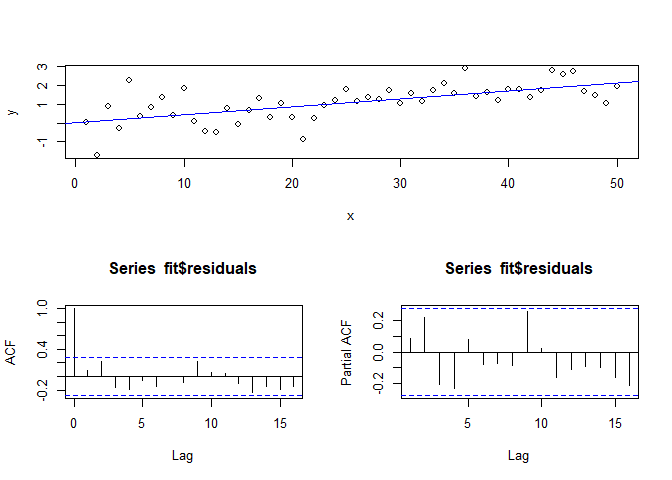
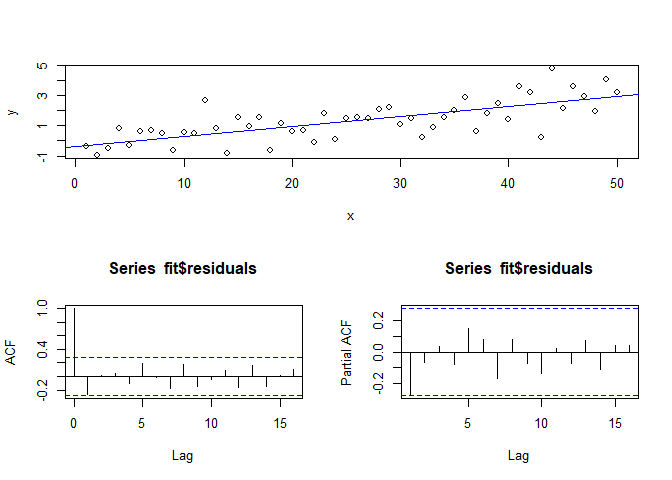
Update md

diff --git a/src/2022-03-08_newey-west-heteroskedasticity-and-autocorrelation-robust-errors.md b/src/2022-03-08_newey-west-heteroskedasticity-and-autocorrelation-robust-errors.md
@@ -136,33 +136,33 @@ summary(fit) # standard estimates
     ## lm(formula = y ~ x)
     ## 
     ## Residuals:
-    ##      Min       1Q   Median       3Q      Max 
-    ## -1.84259 -0.43207  0.01309  0.42442  2.00734 
+    ##     Min      1Q  Median      3Q     Max 
+    ## -2.2314 -0.5123  0.1399  0.6037  2.2652 
     ## 
     ## Coefficients:
     ##             Estimate Std. Error t value Pr(>|t|)    
-    ## (Intercept) 0.038515   0.212067   0.182    0.857    
-    ## x           0.042166   0.007238   5.826 4.62e-07 ***
+    ## (Intercept) -0.34269    0.26606  -1.288    0.204    
+    ## x            0.06563    0.00908   7.227  3.3e-09 ***
     ## ---
     ## Signif. codes:  0 '***' 0.001 '**' 0.01 '*' 0.05 '.' 0.1 ' ' 1
     ## 
-    ## Residual standard error: 0.7386 on 48 degrees of freedom
-    ## Multiple R-squared:  0.4142, Adjusted R-squared:  0.402 
-    ## F-statistic: 33.94 on 1 and 48 DF,  p-value: 4.621e-07
+    ## Residual standard error: 0.9266 on 48 degrees of freedom
+    ## Multiple R-squared:  0.5211, Adjusted R-squared:  0.5111 
+    ## F-statistic: 52.23 on 1 and 48 DF,  p-value: 3.301e-09
 
 ``` r
 coeftest(fit, vcov = NeweyWest(fit, verbose = T))
 ```
 
     ## 
-    ## Lag truncation parameter chosen: 2
+    ## Lag truncation parameter chosen: 1
 
     ## 
     ## t test of coefficients:
     ## 
-    ##              Estimate Std. Error t value  Pr(>|t|)    
-    ## (Intercept) 0.0385148  0.2704861  0.1424    0.8874    
-    ## x           0.0421660  0.0090833  4.6421 2.695e-05 ***
+    ##               Estimate Std. Error t value  Pr(>|t|)    
+    ## (Intercept) -0.3426888  0.1904078 -1.7998   0.07819 .  
+    ## x            0.0656255  0.0060779 10.7974 1.936e-14 ***
     ## ---
     ## Signif. codes:  0 '***' 0.001 '**' 0.01 '*' 0.05 '.' 0.1 ' ' 1
 
@@ -172,21 +172,21 @@ summary(fit_arima)
 ```
 
     ## Series: y 
-    ## Regression with ARIMA(0,0,0) errors 
+    ## Regression with ARIMA(0,0,1) errors 
     ## 
     ## Coefficients:
-    ##         xreg
-    ##       0.0433
-    ## s.e.  0.0035
+    ##           ma1  intercept    xreg
+    ##       -0.2802    -0.3284  0.0650
+    ## s.e.   0.1320     0.1841  0.0063
     ## 
-    ## sigma^2 = 0.5347:  log likelihood = -54.79
-    ## AIC=113.58   AICc=113.84   BIC=117.4
+    ## sigma^2 = 0.8084:  log likelihood = -64.12
+    ## AIC=136.25   AICc=137.14   BIC=143.9
     ## 
     ## Training set error measures:
-    ##                       ME      RMSE       MAE      MPE    MAPE      MASE
-    ## Training set 0.009342702 0.7238787 0.5295841 23.40765 80.5857 0.6623062
-    ##                    ACF1
-    ## Training set 0.08504571
+    ##                        ME      RMSE       MAE     MPE     MAPE      MASE
+    ## Training set -0.002247963 0.8717236 0.7043367 2.29856 125.1323 0.6075731
+    ##                     ACF1
+    ## Training set -0.01213301
 
 ``` r
 plot(x,y)
